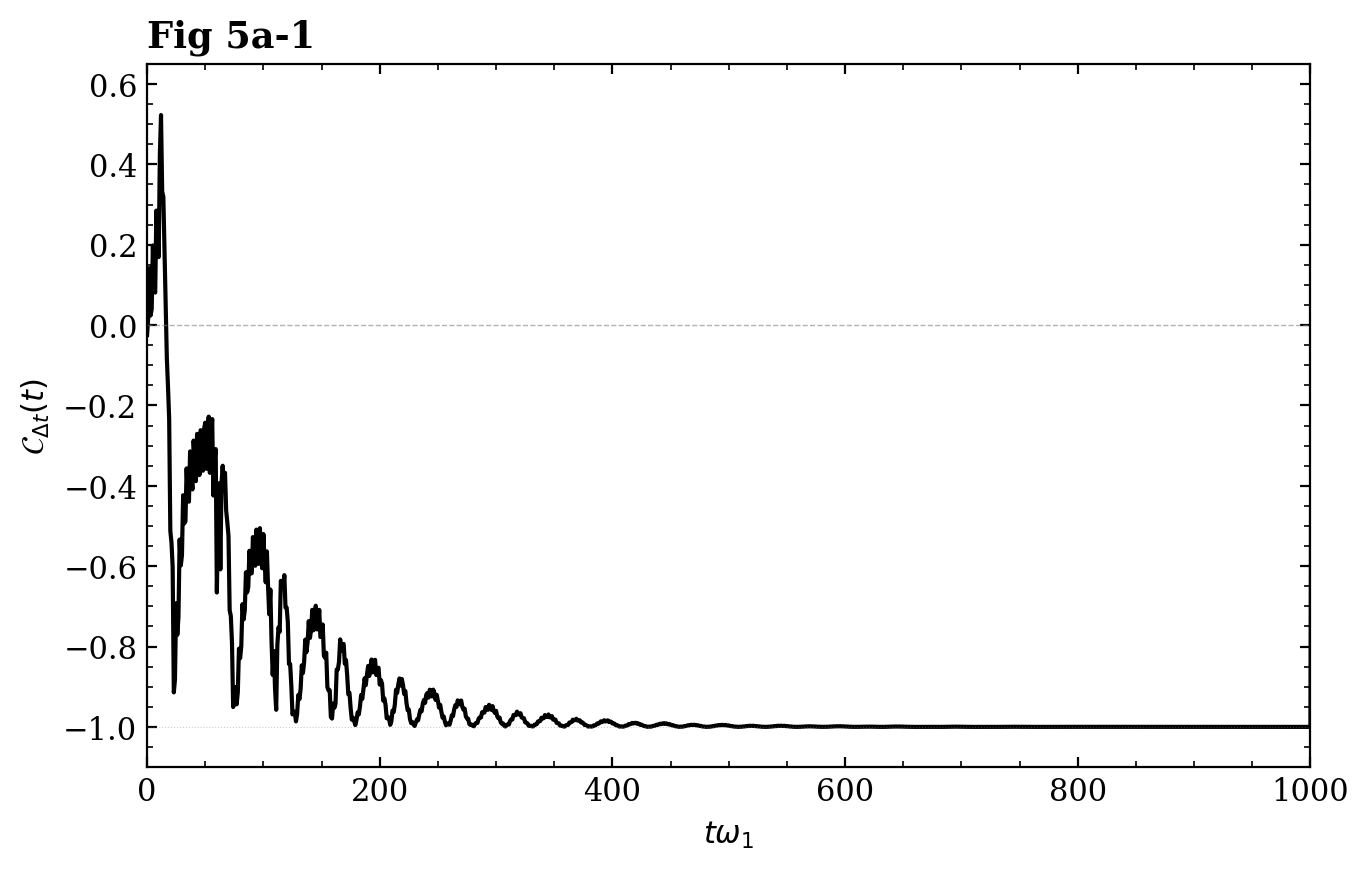
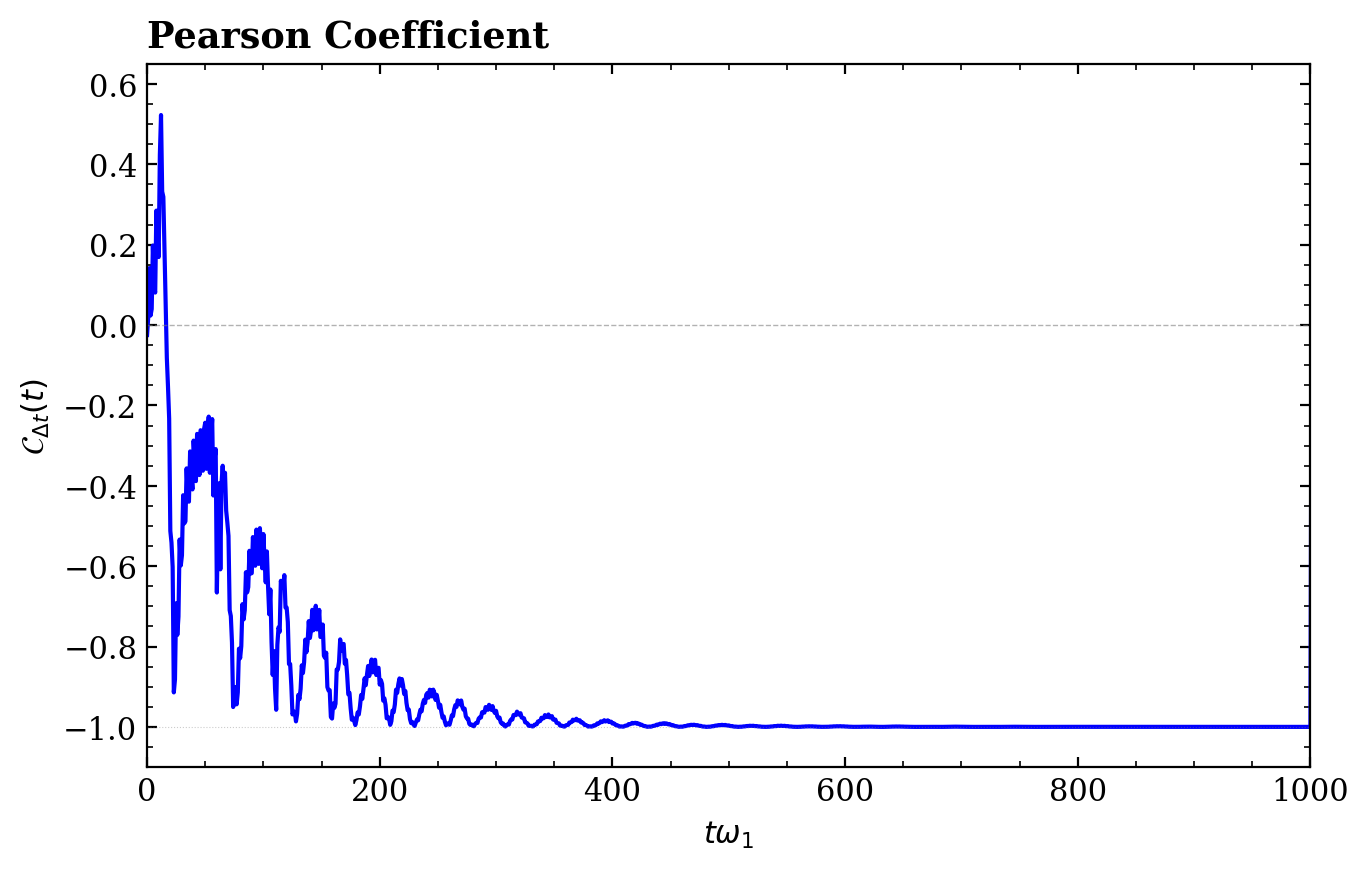
updated some code

Changed region(s): [[0.1227, 0.4655, 0.9511, 0.8379], [0.1227, 0.0, 0.3988, 0.0621], [0.092, 0.1241, 0.1227, 0.4034]]

diff --git a/double_qubit_simulation.py b/double_qubit_simulation.py
@@ -1,16 +1,6 @@
 """
-Figure 5 — Cattaneo et al., Ann. Phys. (Berlin) 2021, 533, 2100038
+Reproducing Figure 5 — Cattaneo et al., Ann. Phys. (Berlin) 2021, 533, 2100038
 
-Libraries
----------
-qutip               operators, Liouvillian, mesolve, negativity,
-                    entropy_vn, ptrace, propagator
-matplotlib          plotting
-scipy.integrate.quad  the two Cauchy principal-value bath integrals —
-                    no QuTiP equivalent exists for spectral density integrals
-numpy               Cholesky decomp of the 2×2 rate matrix (qt.liouvillian
-                    accepts jump operators, not a rate matrix directly);
-                    also used for the Choi-matrix reshape of qt.propagator
 """
 
 import numpy as np
@@ -18,21 +8,20 @@ from scipy.integrate import quad
 import qutip as qt
 import matplotlib.pyplot as plt
 
-# ── Parameters (ℏ = ω₁ = 1) ──────────────────────────────────────────────────
+# Parameters
 omega1, omega2 = 1.0, 0.99
 mu      = 10**(-1.5)
 beta    = 10.0
 T1_inv  = 1.0 / 3e5
 omega_C = 20.0
 
-# ── Ohmic spectral density & Bose–Einstein factor ─────────────────────────────
+# Ohmic spectral density & Bose–Einstein factor
 def J(w):   return mu**2 * w * omega_C**2 / (omega_C**2 + w**2)
 def N_B(w):
     a = beta * w
     return 0.0 if a > 700 else (1/a if a < 1e-12 else 1/(np.exp(a) - 1))
 
-# ── One-sided Fourier transforms Γ(±ω)  (Eq. A2) ─────────────────────────────
-# These integrals have no QuTiP equivalent — scipy.quad is the right tool.
+# Fourier transforms
 def Gamma_pos(oq):
     re = np.pi * (N_B(oq) + 1) * J(oq)
     f  = lambda w: J(w) * ((N_B(w)+1)/(oq-w+1e-30) + N_B(w)/(oq+w))
@@ -41,20 +30,18 @@ def Gamma_pos(oq):
     return re + 1j*(v1+v2)
 
 def Gamma_neg(oq):
-    # NOTE: Im[Γ(−ω)] ≠ −Im[Γ(+ω)] — this integral must be computed separately
     re    = np.pi * N_B(oq) * J(oq)
-    f_pv  = lambda w: J(w) * N_B(w) / (oq-w+1e-30)        # Cauchy-singular at w=oq
-    f_reg = lambda w: -J(w) * (N_B(w)+1) / (oq+w)          # regular
+    f_pv  = lambda w: J(w) * N_B(w) / (oq-w+1e-30)
+    f_reg = lambda w: -J(w) * (N_B(w)+1) / (oq+w)
     v1,_ = quad(f_pv,  1e-7, oq-1e-4, limit=600, epsabs=1e-13)
     v2,_ = quad(f_pv,  oq+1e-4, 1e4,  limit=600, epsabs=1e-13)
     vr,_ = quad(f_reg, 1e-7, 1e4,     limit=600, epsabs=1e-13)
     return re + 1j*(v1+v2+vr)
 
-print("Computing bath integrals…")
 G  = [Gamma_pos(omega1), Gamma_pos(omega2)]
 Gn = [Gamma_neg(omega1), Gamma_neg(omega2)]
 
-# ── Master-equation coefficients (Eq. A1) ─────────────────────────────────────
+# Master-equation coefficients
 def gd(j,k):
     v = G[j] + np.conj(G[k])
     if j == k: v += T1_inv
@@ -63,7 +50,7 @@ def gu(j,k): return complex(Gn[j] + np.conj(Gn[k]))
 def sd(j,k): return complex((G[j]  - np.conj(G[k]))  / (2j))
 def su(j,k): return complex((Gn[j] - np.conj(Gn[k])) / (2j))
 
-# ── QuTiP operators ───────────────────────────────────────────────────────────
+# Operators
 I = qt.qeye(2)
 sp1, sm1 = qt.tensor(qt.sigmap(), I), qt.tensor(qt.sigmam(), I)
 sp2, sm2 = qt.tensor(I, qt.sigmap()), qt.tensor(I, qt.sigmam())
@@ -72,14 +59,12 @@ Pe1 = qt.tensor(qt.basis(2,0)*qt.basis(2,0).dag(), I)
 Pe2 = qt.tensor(I, qt.basis(2,0)*qt.basis(2,0).dag())
 spl, sml = [sp1,sp2], [sm1,sm2]
 
-# ── Hamiltonian H = H_S + H_LS  (Eqs. 1–3) ───────────────────────────────────
+# System Hamiltonian
 H = ( 0.5*(omega1*qt.tensor(qt.sigmaz(),I) + omega2*qt.tensor(I,qt.sigmaz()))
     + sum(sd(j,k)*spl[k]*sml[j] + su(j,k)*sml[k]*spl[j]
           for j in range(2) for k in range(2)) )
 
-# ── Collective jump operators  (Eq. 4) ────────────────────────────────────────
-# qt.liouvillian(H, c_ops) requires individual jump operators, not a rate matrix.
-# We Cholesky-decompose the 2×2 correlated rate matrices γ↓ and γ↑ to get them.
+# Jump operators
 def jump_ops(rate_fn, base_ops):
     G_mat = np.array([[rate_fn(j,k) for k in range(2)] for j in range(2)])
     G_mat = 0.5*(G_mat + G_mat.conj().T)
@@ -90,7 +75,6 @@ def jump_ops(rate_fn, base_ops):
 
 c_ops = jump_ops(gd, sml) + jump_ops(gu, spl)
 
-# ── Initial states ─────────────────────────────────────────────────────────────
 rho_Syn = qt.ket2dm(qt.tensor(
     np.cos(np.pi/4)*qt.basis(2,0) + np.sin(np.pi/4)*qt.basis(2,1),
     np.cos(np.pi/3)*qt.basis(2,0) + 1j*np.sin(np.pi/3)*qt.basis(2,1)))
@@ -102,10 +86,7 @@ rho_sub = qt.ket2dm(
 psi_p   = (qt.basis(2,0) + qt.basis(2,1)) / np.sqrt(2)
 rho_C   = qt.ket2dm(qt.tensor(psi_p, psi_p))
 
-# ═══════════════════════════════════════════════════════════════════════════════
-# Panel (a) — Pearson coefficient
-# ═══════════════════════════════════════════════════════════════════════════════
-print("Panel (a)…")
+# Figure 5a data
 dt    = 0.1
 t_fin = np.arange(0.0, 1001.0 + dt, dt)
 res_a = qt.mesolve(H, rho_Syn, t_fin, c_ops, e_ops=[sx1, sx2])
@@ -121,34 +102,21 @@ stride = 10   # evaluate every 1/ω₁
 t_eval = t_fin[::stride]
 C_arr  = np.array([pearson(i*stride) for i in range(len(t_eval))])
 
-# ═══════════════════════════════════════════════════════════════════════════════
-# Panel (b) — Excited-state populations
-# ═══════════════════════════════════════════════════════════════════════════════
-print("Panel (b)…")
+# Figure 5b data
 t_sub = np.linspace(0, 1000, 500)
 res_b = qt.mesolve(H, rho_sub, t_sub, c_ops, e_ops=[Pe1, Pe2])
 Pe1_t = np.array(res_b.expect[0])
 Pe2_t = np.array(res_b.expect[1])
 
-# ═══════════════════════════════════════════════════════════════════════════════
-# Panel (c) — Negativity N(t) and Collectiveness Ī(ε(t))
-# ═══════════════════════════════════════════════════════════════════════════════
-print("Panel (c)…")
+# Figure 5c data
 t_neg = np.linspace(0, 100, 150)
 res_c = qt.mesolve(H, rho_C, t_neg, c_ops)
-
-# qt.negativity(rho, subsys) — built-in QuTiP entanglement measure
 neg_t = np.array([qt.negativity(r, 1) for r in res_c.states])
 N_M, t_NM = neg_t.max(), t_neg[neg_t.argmax()]
 print(f"  N_M = {N_M:.4f} at t = {t_NM:.1f}  (paper: 0.37 at t=21)")
 
-# Collectiveness: build Choi matrix from qt.propagator, then use
-# qt.entropy_vn and qt.ptrace for the mutual-information calculation.
 def collectiveness(t):
-    # qt.propagator returns the 16×16 superoperator as a Qobj
     U = qt.propagator(H, t, c_ops).full()
-    # Choi matrix: Φ_{(IS,ISp),(JS,JSp)} = ¼ U[IS*4+JS, ISp*4+JSp]
-    # dims=[[2,2,2,2],[2,2,2,2]]: subsystems are (S1, S2, S1', S2')
     n = 4
     Phi = np.zeros((n**2, n**2), complex)
     for IS in range(n):
@@ -157,12 +125,8 @@ def collectiveness(t):
                 for JSp in range(n):
                     Phi[IS*n+ISp, JS*n+JSp] = 0.25 * U[IS*n+JS, ISp*n+JSp]
     Phi_q = qt.Qobj(Phi, dims=[[2,2,2,2],[2,2,2,2]])
-    # qt.ptrace(rho, sel) keeps subsystems in sel, traces out the rest.
-    # sel=[0,2]: keep S1 and S1' -> rho_11p  (trace out S2, S2')
-    # sel=[1,3]: keep S2 and S2' -> rho_22p  (trace out S1, S1')
     rho_11p = qt.ptrace(Phi_q, [0, 2])
     rho_22p = qt.ptrace(Phi_q, [1, 3])
-    # qt.entropy_vn — built-in QuTiP von Neumann entropy
     MI = (qt.entropy_vn(rho_11p) + qt.entropy_vn(rho_22p)
         - qt.entropy_vn(Phi_q))
     return MI / (4 * np.log(2))
@@ -170,14 +134,11 @@ def collectiveness(t):
 t_coll = np.unique(np.concatenate([np.linspace(0,20,10),
                                     np.linspace(20,60,10),
                                     np.linspace(60,100,6)]))
-print(f"  Computing {len(t_coll)} Choi states…")
 C_coll = np.array([collectiveness(t) for t in t_coll])
 I_M, t_IM = C_coll.max(), t_coll[C_coll.argmax()]
 print(f"  I_M = {I_M:.4f} at t = {t_IM:.1f}  (paper: 0.81)")
 
-# ═══════════════════════════════════════════════════════════════════════════════
-# Plotting
-# ═══════════════════════════════════════════════════════════════════════════════
+# Plots
 BLUE, ORANGE = '#1f77b4', '#ff7f0e'
 RED,  CYAN   = '#d62728', '#17becf'
 PURPLE       = '#9467bd'
@@ -191,61 +152,61 @@ plt.rcParams.update({
     'savefig.facecolor': 'white', 'savefig.dpi': 200, 'savefig.bbox': 'tight',
 })
 
-# Panel (a1) — Pearson coefficient
+# Fig 5a plot
 fig_a, ax_a = plt.subplots(figsize=(7, 4.5))
-ax_a.plot(t_eval, C_arr, color='black')
+ax_a.plot(t_eval, C_arr, color='blue')
 ax_a.axhline(0,  color='gray', lw=0.5, ls='--', alpha=0.6)
 ax_a.axhline(-1, color='gray', lw=0.4, ls=':',  alpha=0.4)
 ax_a.set(xlim=(0,1000), ylim=(-1.1,0.65),
          xlabel=r'$t\omega_1$', ylabel=r'$\mathcal{C}_{\Delta t}(t)$')
-ax_a.set_title('Fig 5a-1', loc='left', fontweight='bold')
+ax_a.set_title('Pearson Coefficient', loc='left', fontweight='bold')
 fig_a.tight_layout()
 fig_a.savefig('fig5a_pearson.png')
 print("Saved: fig5a_pearson.png")
 
-# Panel (a2) — late-time synchronised oscillations [800, 850]
+# Fig 5a subplot 1
 fig_a2, ax_a2 = plt.subplots(figsize=(5, 3.5))
 m1 = (t_fin >= 800) & (t_fin <= 850)
 ax_a2.plot(t_fin[m1], s1[m1], color=BLUE,   lw=1.5, label=r'$\langle\sigma_1^x(t)\rangle$')
 ax_a2.plot(t_fin[m1], s2[m1], color=ORANGE, lw=1.5, label=r'$\langle\sigma_2^x(t)\rangle$')
 ax_a2.set(xlim=(800,850), xlabel=r'$t\omega_1$', ylabel=r'$\langle\sigma^x\rangle$')
-ax_a2.set_title("Fig 5a-1", loc='left', fontweight='bold')
+ax_a2.set_title("Time evolution of sigma_1 and sigma_2", loc='left', fontweight='bold')
 ax_a2.legend(fontsize=9, loc='upper right', framealpha=0.9, edgecolor='lightgray')
 fig_a2.tight_layout()
 fig_a2.savefig('fig5a_sync_late.png')
 print("Saved: fig5a_sync_late.png")
 
-# Panel (a3) — early incoherent transient [100, 150]
+# Fig 5a subplot 2
 fig_a3, ax_a3 = plt.subplots(figsize=(5, 3.5))
 m2 = (t_fin >= 100) & (t_fin <= 150)
 ax_a3.plot(t_fin[m2], s1[m2], color=BLUE,   lw=1.5, label=r'$\langle\sigma_1^x(t)\rangle$')
 ax_a3.plot(t_fin[m2], s2[m2], color=ORANGE, lw=1.5, label=r'$\langle\sigma_2^x(t)\rangle$')
 ax_a3.set(xlim=(100,150), xlabel=r'$t\omega_1$', ylabel=r'$\langle\sigma^x\rangle$')
-ax_a3.set_title("Fig 5a-2", loc='left', fontweight='bold')
+ax_a3.set_title("Time evolution of sigma_1 and sigma_2", loc='left', fontweight='bold')
 ax_a3.legend(fontsize=9, loc='upper right', framealpha=0.9, edgecolor='lightgray')
 fig_a3.tight_layout()
 fig_a3.savefig('fig5a_sync_early.png')
 print("Saved: fig5a_sync_early.png")
 
-# Panel (b)
+# Fig 5b plot
 fig_b, ax_b = plt.subplots(figsize=(6, 4.5))
 ax_b.plot(t_sub, Pe1_t, color=RED,  lw=1.5, label=r'$\langle P_1^e(t)\rangle$')
 ax_b.plot(t_sub, Pe2_t, color=BLUE, lw=1.5, label=r'$\langle P_2^e(t)\rangle$')
 ax_b.set(xlim=(0,1000), ylim=(0.40,0.62),
          xlabel=r'$t\omega_1$', ylabel='Population')
-ax_b.set_title('Fig 5b', loc='left', fontweight='bold')
+ax_b.set_title('Time Evolution of the Excited State Populations', loc='left', fontweight='bold')
 ax_b.legend(fontsize=10, loc='upper right', framealpha=0.9, edgecolor='lightgray')
 fig_b.tight_layout()
 fig_b.savefig('fig5b_subradiance.png')
 print("Saved: fig5b_subradiance.png")
 
-# Panel (c)
+# Fig 5c plot
 fig_c, ax_c = plt.subplots(figsize=(6, 4.5))
 ax_c.plot(t_neg,  neg_t,  color=CYAN,   lw=2.0, label=r'$\mathcal{N}(t)$')
 ax_c.plot(t_coll, C_coll, color=PURPLE, lw=2.0, label=r'$\bar{I}(\mathcal{E}(t))$')
 ax_c.set(xlim=(0,100), ylim=(-0.02,1.0),
          xlabel=r'$t\omega_1$', ylabel='Value')
-ax_c.set_title('Fig 5c', loc='left', fontweight='bold')
+ax_c.set_title('Evolution of Negativity and Collectiveness', loc='left', fontweight='bold')
 ax_c.legend(fontsize=10, loc='upper right', framealpha=0.9, edgecolor='lightgray')
 fig_c.tight_layout()
 fig_c.savefig('fig5c_entanglement.png')
